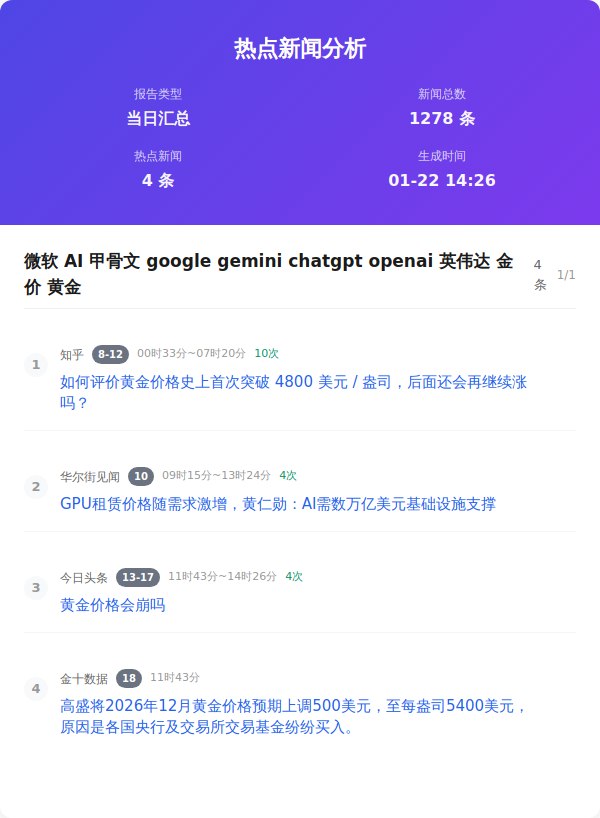
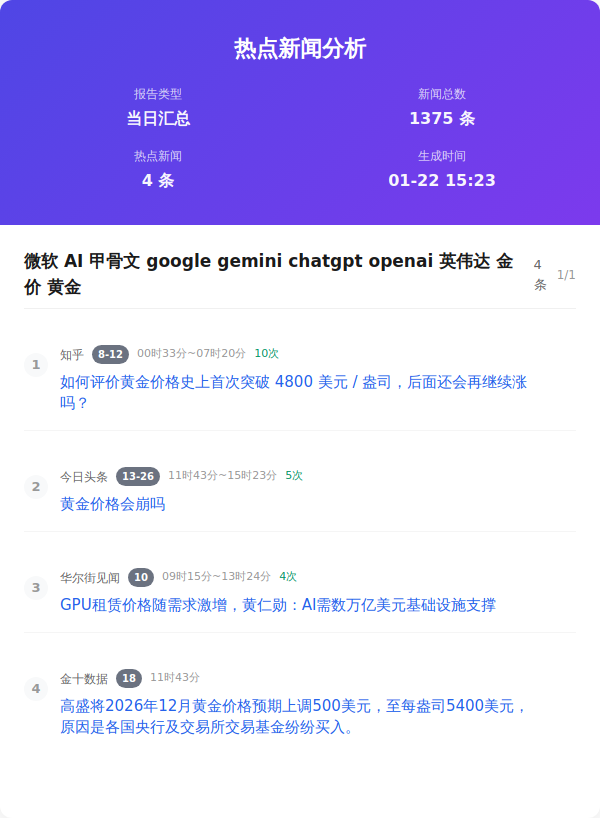
Auto update by GitHub Actions at Thu Jan 22 15:23:33 CST 2026

diff --git a/index.html b/index.html
@@ -357,7 +357,7 @@
                     </div>
                     <div class="info-item">
                         <span class="info-label">新闻总数</span>
-                        <span class="info-value">1278 条</span>
+                        <span class="info-value">1375 条</span>
                     </div>
                     <div class="info-item">
                         <span class="info-label">热点新闻</span>
@@ -365,7 +365,7 @@
                     </div>
                     <div class="info-item">
                         <span class="info-label">生成时间</span>
-                        <span class="info-value">01-22 14:26</span>
+                        <span class="info-value">01-22 15:23</span>
                     </div>
                 </div>
             </div>
@@ -393,9 +393,9 @@
                         <div class="news-number">2</div>
                         <div class="news-content">
                             <div class="news-header">
-                                <span class="source-name">华尔街见闻</span><span class="rank-num ">10</span><span class="time-info">09时15分~13时24分</span><span class="count-info">4次</span>
+                                <span class="source-name">今日头条</span><span class="rank-num ">13-26</span><span class="time-info">11时43分~15时23分</span><span class="count-info">5次</span>
                             </div>
-                            <div class="news-title"><a href="https://wallstreetcn.com/articles/3763828" target="_blank" class="news-link">GPU租赁价格随需求激增，黄仁勋：AI需数万亿美元基础设施支撑</a>
+                            <div class="news-title"><a href="https://www.toutiao.com/trending/7597976651418308122/" target="_blank" class="news-link">黄金价格会崩吗</a>
                             </div>
                         </div>
                     </div>
@@ -403,9 +403,9 @@
                         <div class="news-number">3</div>
                         <div class="news-content">
                             <div class="news-header">
-                                <span class="source-name">今日头条</span><span class="rank-num ">13-17</span><span class="time-info">11时43分~14时26分</span><span class="count-info">4次</span>
+                                <span class="source-name">华尔街见闻</span><span class="rank-num ">10</span><span class="time-info">09时15分~13时24分</span><span class="count-info">4次</span>
                             </div>
-                            <div class="news-title"><a href="https://www.toutiao.com/trending/7597976651418308122/" target="_blank" class="news-link">黄金价格会崩吗</a>
+                            <div class="news-title"><a href="https://wallstreetcn.com/articles/3763828" target="_blank" class="news-link">GPU租赁价格随需求激增，黄仁勋：AI需数万亿美元基础设施支撑</a>
                             </div>
                         </div>
                     </div>

diff --git a/output/2026年01月22日/html/当日汇总.html b/output/2026年01月22日/html/当日汇总.html
@@ -357,7 +357,7 @@
                     </div>
                     <div class="info-item">
                         <span class="info-label">新闻总数</span>
-                        <span class="info-value">1278 条</span>
+                        <span class="info-value">1375 条</span>
                     </div>
                     <div class="info-item">
                         <span class="info-label">热点新闻</span>
@@ -365,7 +365,7 @@
                     </div>
                     <div class="info-item">
                         <span class="info-label">生成时间</span>
-                        <span class="info-value">01-22 14:26</span>
+                        <span class="info-value">01-22 15:23</span>
                     </div>
                 </div>
             </div>
@@ -393,9 +393,9 @@
                         <div class="news-number">2</div>
                         <div class="news-content">
                             <div class="news-header">
-                                <span class="source-name">华尔街见闻</span><span class="rank-num ">10</span><span class="time-info">09时15分~13时24分</span><span class="count-info">4次</span>
+                                <span class="source-name">今日头条</span><span class="rank-num ">13-26</span><span class="time-info">11时43分~15时23分</span><span class="count-info">5次</span>
                             </div>
-                            <div class="news-title"><a href="https://wallstreetcn.com/articles/3763828" target="_blank" class="news-link">GPU租赁价格随需求激增，黄仁勋：AI需数万亿美元基础设施支撑</a>
+                            <div class="news-title"><a href="https://www.toutiao.com/trending/7597976651418308122/" target="_blank" class="news-link">黄金价格会崩吗</a>
                             </div>
                         </div>
                     </div>
@@ -403,9 +403,9 @@
                         <div class="news-number">3</div>
                         <div class="news-content">
                             <div class="news-header">
-                                <span class="source-name">今日头条</span><span class="rank-num ">13-17</span><span class="time-info">11时43分~14时26分</span><span class="count-info">4次</span>
+                                <span class="source-name">华尔街见闻</span><span class="rank-num ">10</span><span class="time-info">09时15分~13时24分</span><span class="count-info">4次</span>
                             </div>
-                            <div class="news-title"><a href="https://www.toutiao.com/trending/7597976651418308122/" target="_blank" class="news-link">黄金价格会崩吗</a>
+                            <div class="news-title"><a href="https://wallstreetcn.com/articles/3763828" target="_blank" class="news-link">GPU租赁价格随需求激增，黄仁勋：AI需数万亿美元基础设施支撑</a>
                             </div>
                         </div>
                     </div>

diff --git a/output/2026年01月22日/html/15时23分.html b/output/2026年01月22日/html/15时23分.html
@@ -353,7 +353,7 @@
                 <div class="header-info">
                     <div class="info-item">
                         <span class="info-label">报告类型</span>
-                        <span class="info-value">当前榜单</span>
+                        <span class="info-value">实时分析</span>
                     </div>
                     <div class="info-item">
                         <span class="info-label">新闻总数</span>
